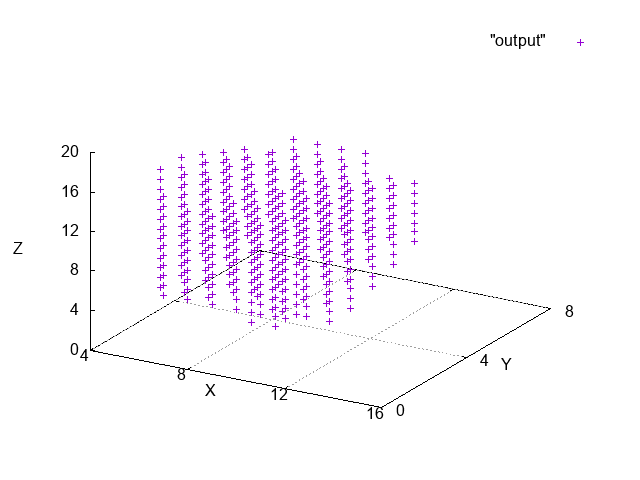
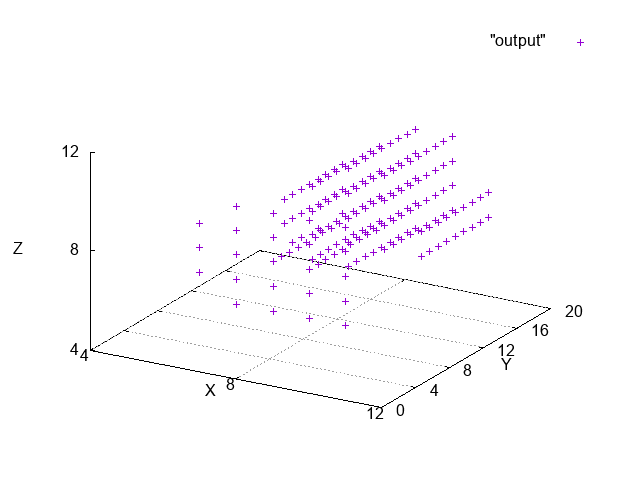
+と+=とnd

diff --git a/include/model.hpp b/include/model.hpp
@@ -33,6 +33,44 @@ inline bool operator < (coordinate a, coordinate b)
   return a.z < b.z;
 }
 
+typedef coordinate difference;
+
+coordinate operator += (coordinate& c, difference d) {
+  c.x += d.x;
+  c.y += d.y;
+  c.z += d.z;
+  return c;
+}
+
+coordinate operator + (coordinate c, difference d) {
+  coordinate e = c;
+  e.x += d.x;
+  e.y += d.y;
+  e.z += d.z;
+  return e;
+}
+
+const std::vector<coordinate> nd = {
+  {-1, -1, 0},
+  {-1, 0, -1},
+  {-1, 0, 0},
+  {-1, 0, 1},
+  {-1, 1, 0},
+  {0, -1, -1},
+  {0, -1, 0},
+  {0, -1, 1},
+  {0, 0, -1},
+  {0, 0, 1},
+  {0, 1, -1},
+  {0, 1, 0},
+  {0, 1, 1},
+  {1, -1, 0},
+  {1, 0, -1},
+  {1, 0, 0},
+  {1, 0, 1},
+  {1, 1, 0},
+};
+
 class Model {
 public:
   int R;

diff --git a/johniel/main.cpp b/johniel/main.cpp
@@ -24,7 +24,17 @@ int main(int argc, char *argv[])
     assert(c.y == 2);
     assert(c.z == 3);
   }
-  Model m("../problemsL/LA001_tgt.mdl");
+  {
+    coordinate c({1, 2, 3});
+    difference d({10, 20, 30});
+    c += d;
+    assert(c.x == 11);
+    assert(c.y == 22);
+    assert(c.z == 33);
+  }
+
+  
+  Model m("../problemsL/LA002_tgt.mdl");
   for (int i = 0; i < m.R; ++i) {
     for (int j = 0; j < m.R; ++j) {
       for (int k = 0; k < m.R; ++k) {
